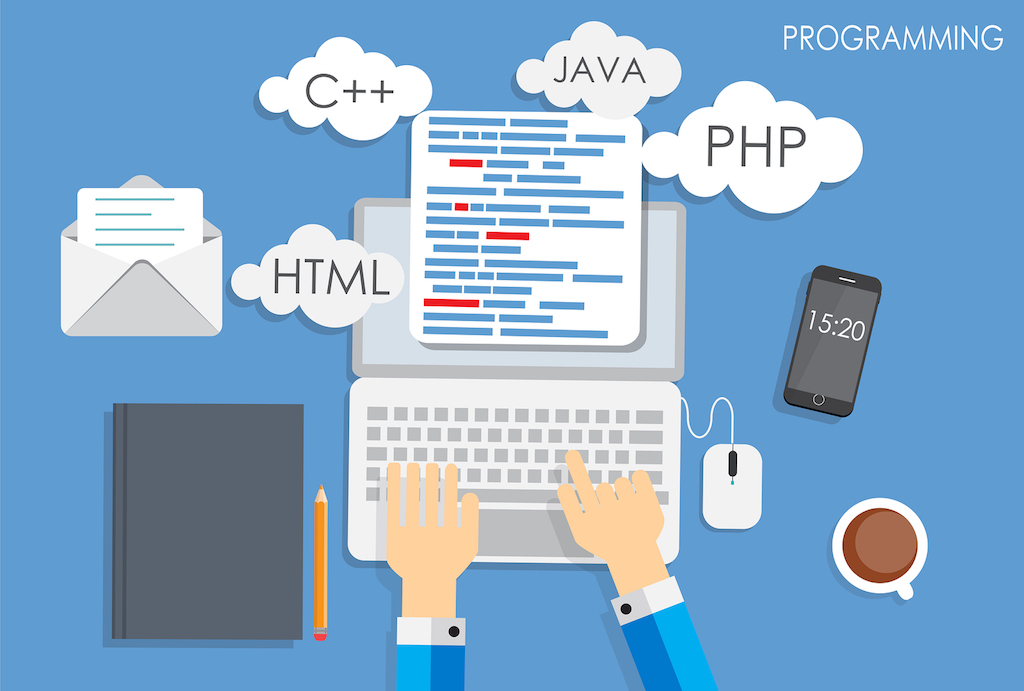
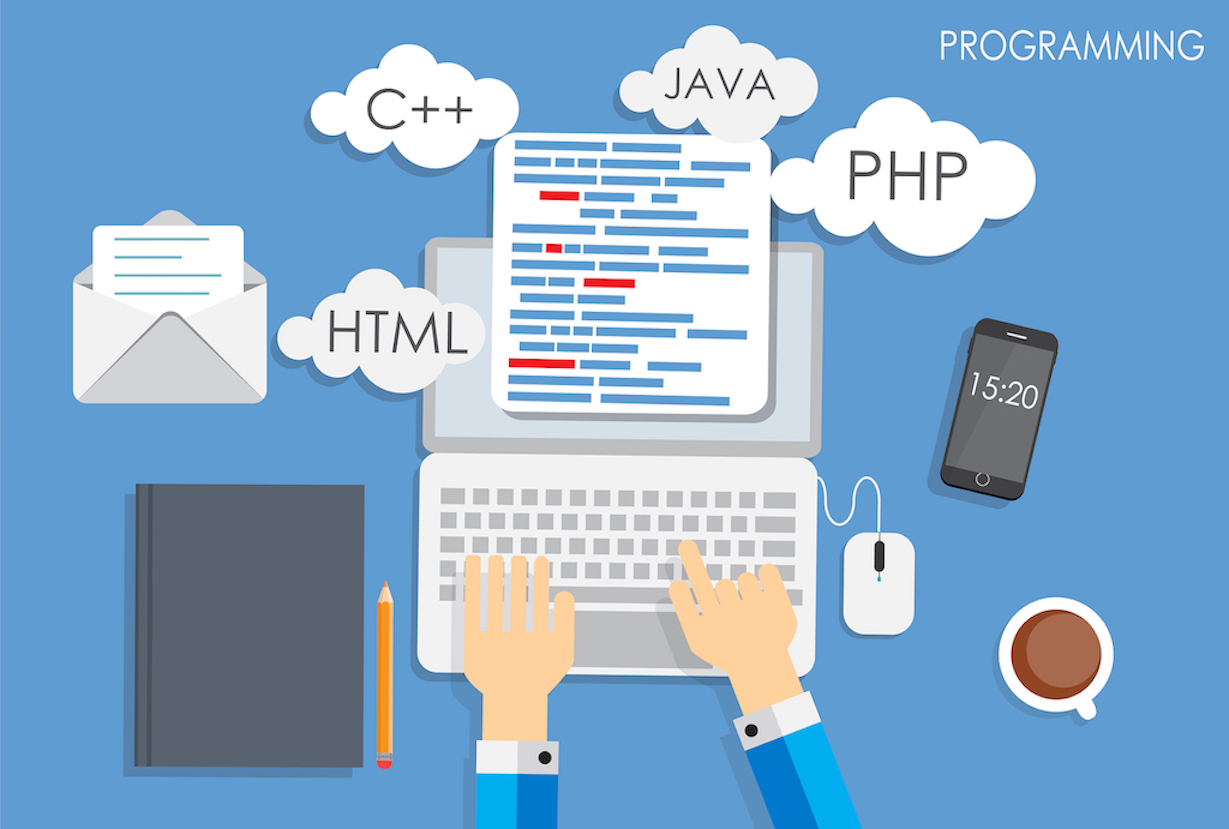
hero carusell temp replaced by img with horizontal scale

Changed region(s): [[0.4688, 0.3343, 0.5, 0.3647]]

diff --git a/public/src/hero/hero.html b/public/src/hero/hero.html
@@ -1,61 +1,76 @@
-<div class="view-column" style="padding-bottom: 10px" ng-cloak>
-<div layout="row">
-  <div layout-fill class="carousel">
+<style>
+  .slider {
+    background-position: center;
+    background-image: url('front/assets/img/learning.jpg');
+    background-repeat: none;
+    width: 100%;
+    height: 496px;
+  }
+</style>
+<div class="view-column" ng-cloak>
+<div layout="column" layout-gt-sm="row" style="margin-bottom: 30px">
+  <!--div flex flex-gt-sm="60" class="">
     <jk-carousel
       data="$ctrl.slides"
       item-template-url="'front/item-template.html'"
-      max-width="750" 
-      max-height="520"
+      max-width="1000" 
+      max-height="680"
       auto-slide="true"
       auto-slide-time="5000" >
     </jk-carousel>
-  </div>
+  </div-->
+  <div class="slider">
 
-  <div hide show-gt-sm layout-fill style="max-width: 400px;">
-    <md-card>
+  </div>
+  <!--span flex hide show-gt-sm></span-->
+  <div flex flex-gt-sm="30" layout="row" layout-xs="column" layout-gt-sm="column">
+    
+    <md-card flex>
       <md-card-title>
         <md-card-title-text>
-          <span class="md-headline">Card with image</span>
+          <span class="md-headline">Card</span>
           <span class="md-subhead">Small</span>
         </md-card-title-text>
-        <md-card-title-media>
+        <!--md-card-title-media>
           <div class="md-media-sm card-media"></div>
-        </md-card-title-media>
+        </md-card-title-media-->
       </md-card-title>
     </md-card>
-    <md-card>
+    <md-card flex>
       <md-card-title>
         <md-card-title-text>
-          <span class="md-headline">Card with image</span>
+          <span class="md-headline">Card</span>
           <span class="md-subhead">Small</span>
         </md-card-title-text>
-        <md-card-title-media>
+        <!--md-card-title-media>
           <div class="md-media-sm card-media"></div>
-        </md-card-title-media>
+        </md-card-title-media-->
       </md-card-title>
     </md-card>
-    <md-card>
+
+    <md-card flex hide show-gt-sm>
       <md-card-title>
         <md-card-title-text>
-          <span class="md-headline">Card with image</span>
+          <span class="md-headline">Card</span>
           <span class="md-subhead">Small</span>
         </md-card-title-text>
-        <md-card-title-media>
+        <!--md-card-title-media>
           <div class="md-media-sm card-media"></div>
-        </md-card-title-media>
+        </md-card-title-media-->
       </md-card-title>
     </md-card>
-    <md-card>
+    <md-card flex>
       <md-card-title>
         <md-card-title-text>
-          <span class="md-headline">Card with image</span>
+          <span class="md-headline">Card</span>
           <span class="md-subhead">Small</span>
         </md-card-title-text>
-        <md-card-title-media>
+        <!--md-card-title-media>
           <div class="md-media-sm card-media"></div>
-        </md-card-title-media>
+        </md-card-title-media-->
       </md-card-title>
     </md-card>
+
   </div>
 
 </div>
